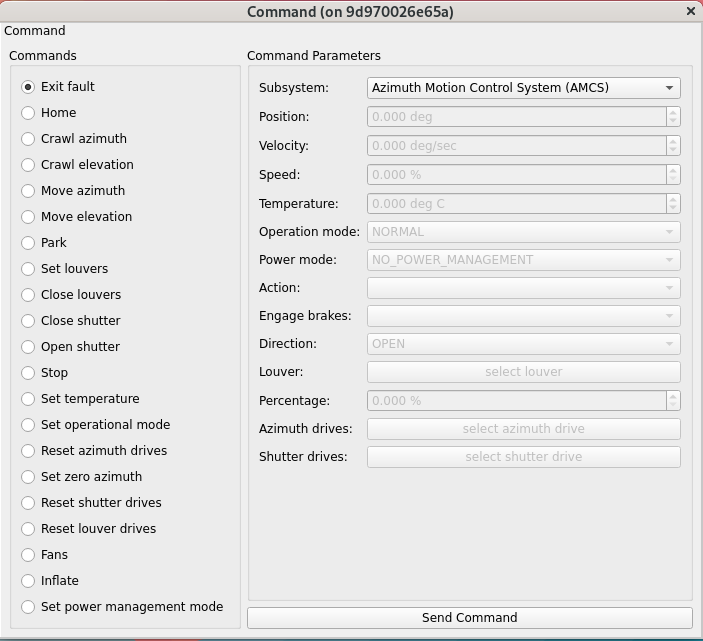
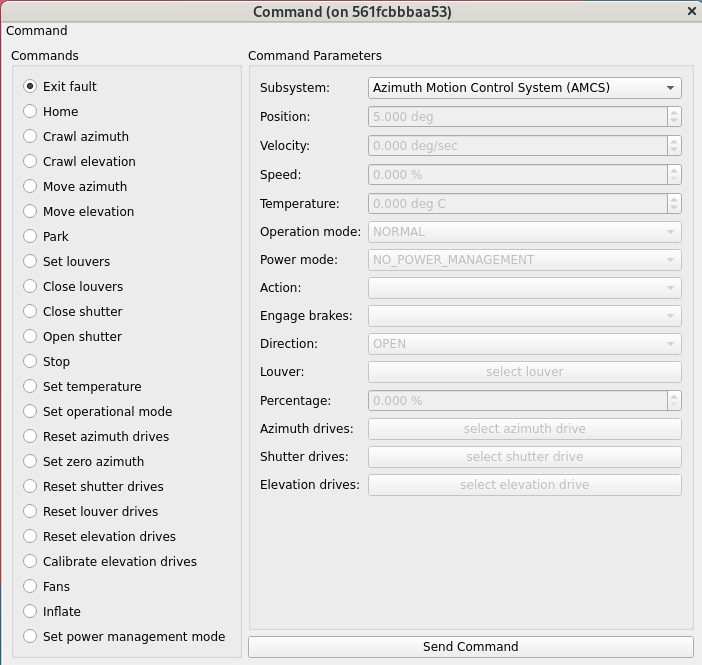
Add new LWS commands.

diff --git a/python/lsst/ts/mtdomegui/tab/tab_command.py b/python/lsst/ts/mtdomegui/tab/tab_command.py
@@ -47,6 +47,7 @@ from lsst.ts.mtdomecom import (
     DOME_AZIMUTH_OFFSET,
     LCS_NUM_LOUVERS,
     LCS_NUM_MOTORS_PER_LOUVER,
+    LWSCS_NUM_MOTORS,
     LWSCS_VMAX,
 )
 from lsst.ts.xml.enums import MTDome
@@ -104,6 +105,7 @@ class TabCommand(TabTemplate):
         names_louver = [f"{louver.name} ({idx})" for (idx, louver) in enumerate(MTDome.Louver)]
         names_drive_azimuth = [str(idx) for idx in range(AMCS_NUM_MOTORS)]
         names_drive_shuttor = [str(idx) for idx in range(NUM_DRIVE_SHUTTER)]
+        names_drive_el = [str(idx) for idx in range(LWSCS_NUM_MOTORS)]
 
         tab_louver = TabSelector("Louver", model, names_louver)
         for idx, louver in enumerate(MTDome.Louver):
@@ -113,6 +115,7 @@ class TabCommand(TabTemplate):
             "louver": tab_louver,
             "drive_az": TabSelector("Azimuth Drive", model, names_drive_azimuth),
             "drive_shuttor": TabSelector("Shutter Drive", model, names_drive_shuttor),
+            "drive_el": TabSelector("Elevation Drive", model, names_drive_el),
         }
 
     def _create_command_parameters(self, decimal: int = 3) -> dict:
@@ -212,6 +215,12 @@ class TabCommand(TabTemplate):
             tool_tip="Click to select the shutter drive.",
         )
 
+        button_reset_el = set_button(
+            "select elevation drive",
+            self._tabs["drive_el"].show,
+            tool_tip="Click to select the elevation (light/windscreen) drive.",
+        )
+
         return {
             "position": position,
             "velocity": velocity,
@@ -227,6 +236,7 @@ class TabCommand(TabTemplate):
             "louver": button_louver,
             "reset_drives_az": button_reset_az,
             "reset_drives_shutter": button_reset_shutter,
+            "reset_drives_el": button_reset_el,
         }
 
     def _create_commands(self) -> dict[str, QRadioButton]:
@@ -267,6 +277,9 @@ class TabCommand(TabTemplate):
 
         command_reset_drives_shutter = QRadioButton("Reset shutter drives", parent=self)
         command_reset_drives_louvers = QRadioButton("Reset louver drives", parent=self)
+
+        command_reset_drives_el = QRadioButton("Reset elevation drives", parent=self)
+        command_calibrate_el = QRadioButton("Calibrate elevation drives", parent=self)
 
         command_fans = QRadioButton("Fans", parent=self)
         command_inflate = QRadioButton("Inflate", parent=self)
@@ -340,6 +353,18 @@ class TabCommand(TabTemplate):
             "don't reset themselves."
         )
 
+        command_reset_drives_el.setToolTip(
+            "Reset one or more EL drives. This is necessary when exiting\n"
+            "from FAULT state without going to Degraded Mode since the\n"
+            "drives don't reset themselves."
+        )
+
+        command_calibrate_el.setToolTip(
+            "Move both EL drives towards zero until the limit switches\n"
+            "engage. This may be necessary to avoid skew in the\n"
+            "light/windscreen panels."
+        )
+
         command_fans.setToolTip("Set the fans speed to the indicated value.")
         command_inflate.setToolTip("Inflate (True) or deflate (False) the inflatable seal.")
 
@@ -372,6 +397,10 @@ class TabCommand(TabTemplate):
         command_set_zero_az.toggled.connect(self._callback_command)
 
         command_reset_drives_shutter.toggled.connect(self._callback_command)
+        command_reset_drives_louvers.toggled.connect(self._callback_command)
+
+        command_reset_drives_el.toggled.connect(self._callback_command)
+        command_calibrate_el.toggled.connect(self._callback_command)
 
         command_fans.toggled.connect(self._callback_command)
         command_inflate.toggled.connect(self._callback_command)
@@ -397,6 +426,8 @@ class TabCommand(TabTemplate):
             "set_zero_az": command_set_zero_az,
             "reset_drives_shutter": command_reset_drives_shutter,
             "reset_drives_louvers": command_reset_drives_louvers,
+            "reset_drives_el": command_reset_drives_el,
+            "calibrate_el": command_calibrate_el,
             "fans": command_fans,
             "inflate": command_inflate,
             "set_power_management_mode": command_set_power_management_mode,
@@ -459,6 +490,12 @@ class TabCommand(TabTemplate):
 
         elif self._commands["reset_drives_louvers"].isChecked():
             self._enable_command_parameters(["louver"])
+
+        elif self._commands["reset_drives_el"].isChecked():
+            self._enable_command_parameters(["reset_drives_el"])
+
+        elif self._commands["calibrate_el"].isChecked():
+            self._enable_command_parameters([])
 
         elif self._commands["fans"].isChecked():
             self._enable_command_parameters(["speed"])
@@ -630,6 +667,17 @@ class TabCommand(TabTemplate):
                     self._get_reset_drives_louver(),
                 )
 
+            case "reset_drives_el":
+                await run_command(
+                    self.model.mtdome_com.reset_drives_el,  # type: ignore[union-attr]
+                    self._get_reset_drives_elevation(),
+                )
+
+            case "calibrate_el":
+                await run_command(
+                    self.model.mtdome_com.calibrate_el,  # type: ignore[union-attr]
+                )
+
             case "fans":
                 await run_command(
                     self.model.mtdome_com.fans,  # type: ignore[union-attr]
@@ -794,6 +842,21 @@ class TabCommand(TabTemplate):
 
         return reset_drives
 
+    def _get_reset_drives_elevation(self) -> list[int]:
+        """Get the reset elevation drives.
+
+        Returns
+        -------
+        reset_drives : `list` [`int`]
+            Reset elevation drives. 0 means no reset, 1 means reset.
+        """
+
+        reset_drives = [0] * LWSCS_NUM_MOTORS
+        for idx in self._tabs["drive_el"].get_selection():
+            reset_drives[idx] = 1
+
+        return reset_drives
+
     def _get_reset_drives_louver(self) -> list[int]:
         """Get the reset louver drives.
 
@@ -879,6 +942,7 @@ class TabCommand(TabTemplate):
         layout.addRow("Percentage:", self._command_parameters["percentage"])
         layout.addRow("Azimuth drives:", self._command_parameters["reset_drives_az"])
         layout.addRow("Shutter drives:", self._command_parameters["reset_drives_shutter"])
+        layout.addRow("Elevation drives:", self._command_parameters["reset_drives_el"])
 
         return create_group_box("Command Parameters", layout)
 

diff --git a/tests/tab/test_tab_command.py b/tests/tab/test_tab_command.py
@@ -31,6 +31,7 @@ from lsst.ts.mtdomecom import (
     AMCS_NUM_MOTORS,
     LCS_NUM_LOUVERS,
     LCS_NUM_MOTORS_PER_LOUVER,
+    LWSCS_NUM_MOTORS,
     LWSCS_VMAX,
 )
 from lsst.ts.mtdomegui import MAX_POSITION, MAX_TEMPERATURE, NUM_DRIVE_SHUTTER, Model
@@ -50,8 +51,8 @@ def widget(qtbot: QtBot) -> TabCommand:
 
 
 def test_init(widget: TabCommand) -> None:
-    assert len(widget._command_parameters) == 14
-    assert len(widget._commands) == 21
+    assert len(widget._command_parameters) == 15
+    assert len(widget._commands) == 23
 
     assert widget._command_parameters["position"].maximum() == MAX_POSITION
     assert widget._command_parameters["position"].minimum() == -MAX_POSITION
@@ -90,8 +91,8 @@ async def test_callback_command(qtbot: QtBot, widget: TabCommand) -> None:
 
 @pytest.mark.asyncio
 async def test_show_selector(qtbot: QtBot, widget: TabCommand) -> None:
-    tab_names = ["louver", "drive_az", "drive_shuttor"]
-    parameter_names = ["louver", "reset_drives_az", "reset_drives_shutter"]
+    tab_names = ["louver", "drive_az", "drive_shuttor", "drive_el"]
+    parameter_names = ["louver", "reset_drives_az", "reset_drives_shutter", "reset_drives_el"]
 
     for tab_name, parameter_name in zip(tab_names, parameter_names):
         assert widget._tabs[tab_name].isVisible() is False
@@ -183,6 +184,17 @@ def test_get_reset_drives_aperture_shutter(widget: TabCommand) -> None:
     widget._tabs["drive_shuttor"].select(selections)
 
     assert widget._get_reset_drives_aperture_shutter() == [0, 1, 1, 0]
+
+
+def test_get_reset_drives_elevation(widget: TabCommand) -> None:
+    # No selected drives
+    assert widget._get_reset_drives_elevation() == [0] * LWSCS_NUM_MOTORS
+
+    # Has selected drives
+    selections = [1]
+    widget._tabs["drive_el"].select(selections)
+
+    assert widget._get_reset_drives_elevation() == [0, 1]
 
 
 def test_get_reset_drives_louver(widget: TabCommand) -> None:

diff --git a/doc/version_history.rst b/doc/version_history.rst
@@ -6,6 +6,14 @@
 Version History
 ##################
 
+.. _lsst.ts.mtdomegui-0.6.3:
+
+-------------
+0.6.3
+-------------
+
+* Support the reset_drives_el and calibrate_el commands.
+
 .. _lsst.ts.mtdomegui-0.6.2:
 
 -------------
